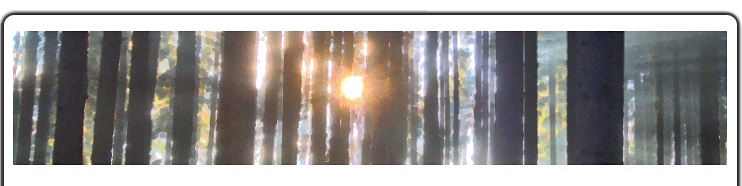
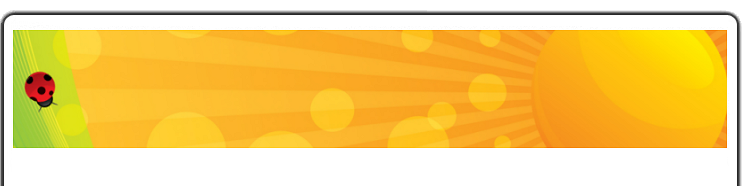
Updated style of the page

diff --git a/public/buttons-min.css b/public/buttons-min.css
@@ -4,4 +4,4 @@ Copyright 2014 Yahoo! Inc. All rights reserved.
 Licensed under the BSD License.
 https://github.com/yui/pure/blob/master/LICENSE.md
 */
-.pure-button{display:inline-block;*display:inline;zoom:1;line-height:normal;white-space:nowrap;vertical-align:baseline;text-align:center;cursor:pointer;-webkit-user-drag:none;-webkit-user-select:none;-moz-user-select:none;-ms-user-select:none;user-select:none}.pure-button::-moz-focus-inner{padding:0;border:0}.pure-button{font-family:inherit;font-size:100%;*font-size:90%;*overflow:visible;padding:.5em 1em;color:#444;color:rgba(0,0,0,.8);*color:#444;border:1px solid #999;border:0 rgba(0,0,0,0);background-color:#E6E6E6;text-decoration:none;border-radius:2px}.pure-button-hover,.pure-button:hover,.pure-button:focus{filter:progid:DXImageTransform.Microsoft.gradient(startColorstr='#00000000', endColorstr='#1a000000', GradientType=0);background-image:-webkit-gradient(linear,0 0,0 100%,from(transparent),color-stop(40%,rgba(0,0,0,.05)),to(rgba(0,0,0,.1)));background-image:-webkit-linear-gradient(transparent,rgba(0,0,0,.05) 40%,rgba(0,0,0,.1));background-image:-moz-linear-gradient(top,rgba(0,0,0,.05) 0,rgba(0,0,0,.1));background-image:-o-linear-gradient(transparent,rgba(0,0,0,.05) 40%,rgba(0,0,0,.1));background-image:linear-gradient(transparent,rgba(0,0,0,.05) 40%,rgba(0,0,0,.1))}.pure-button:focus{outline:0}.pure-button-active,.pure-button:active{box-shadow:0 0 0 1px rgba(0,0,0,.15) inset,0 0 6px rgba(0,0,0,.2) inset}.pure-button[disabled],.pure-button-disabled,.pure-button-disabled:hover,.pure-button-disabled:focus,.pure-button-disabled:active{border:0;background-image:none;filter:progid:DXImageTransform.Microsoft.gradient(enabled=false);filter:alpha(opacity=40);-khtml-opacity:.4;-moz-opacity:.4;opacity:.4;cursor:not-allowed;box-shadow:none}.pure-button-hidden{display:none}.pure-button::-moz-focus-inner{padding:0;border:0}.pure-button-primary,.pure-button-selected,a.pure-button-primary,a.pure-button-selected{background-color:#0078e7;color:#fff}
+.pure-button{display:inline-block;*display:inline;zoom:1;line-height:normal;white-space:nowrap;vertical-align:baseline;text-align:center;cursor:pointer;-webkit-user-drag:none;-webkit-user-select:none;-moz-user-select:none;-ms-user-select:none;user-select:none}.pure-button::-moz-focus-inner{padding:0;border:0}.pure-button{font-family:inherit;font-size:100%;*font-size:90%;*overflow:visible;padding:.5em 1em;color:#444;color:rgba(0,0,0,.8);*color:#444;border:1px solid #999;border:0 rgba(0,0,0,0);background-color:#E6E6E6;text-decoration:none;border-radius:2px}.pure-button-hover,.pure-button:hover,.pure-button:focus{filter:progid:DXImageTransform.Microsoft.gradient(startColorstr='#00000000', endColorstr='#1a000000', GradientType=0);background-image:-webkit-gradient(linear,0 0,0 100%,from(transparent),color-stop(40%,rgba(0,0,0,.05)),to(rgba(0,0,0,.1)));background-image:-webkit-linear-gradient(transparent,rgba(0,0,0,.05) 40%,rgba(0,0,0,.1));background-image:-moz-linear-gradient(top,rgba(0,0,0,.05) 0,rgba(0,0,0,.1));background-image:-o-linear-gradient(transparent,rgba(0,0,0,.05) 40%,rgba(0,0,0,.1));background-image:linear-gradient(transparent,rgba(0,0,0,.05) 40%,rgba(0,0,0,.1))}.pure-button:focus{outline:0}.pure-button-active,.pure-button:active{box-shadow:0 0 0 1px rgba(0,0,0,.15) inset,0 0 6px rgba(0,0,0,.2) inset}.pure-button[disabled],.pure-button-disabled,.pure-button-disabled:hover,.pure-button-disabled:focus,.pure-button-disabled:active{border:0;background-image:none;filter:progid:DXImageTransform.Microsoft.gradient(enabled=false);filter:alpha(opacity=40);-khtml-opacity:.4;-moz-opacity:.4;opacity:.4;cursor:not-allowed;box-shadow:none}.pure-button-hidden{display:none}.pure-button::-moz-focus-inner{padding:0;border:0}.pure-button-primary,.pure-button-selected,a.pure-button-primary,a.pure-button-selected{background-color:#4A9121;color:#fff}

diff --git a/public/style.css b/public/style.css
@@ -1,5 +1,5 @@
 body {
-    background: url("images/grass.jpg") repeat scroll 0 0 rgba(0, 0, 0, 0);
+    background: url("images/background.png") repeat scroll 0 0 #8EE35D;
     color: #333;
     font-family: 'Lucida Grande',Verdana,Arial,Sans-Serif;
     font-size: 62.5%;
@@ -23,7 +23,7 @@ ul { list-style-type: none; }
 }
 #header h1 {
     font-size: 22px;
-    padding-left: 40px;
+    padding-left: 80px;
     padding-top: 40px;
     text-align: left;
 }
@@ -50,7 +50,7 @@ ul { list-style-type: none; }
     text-decoration: none;
 }
 #navigation ul li a:hover {
-    background: url("images/nav_hover.jpg") repeat scroll center bottom rgba(0, 0, 0, 0);
+    background: url("images/nav_hover.png") repeat scroll center bottom rgba(0, 0, 0, 0);
     color: #fee202;
 }
 #content {
@@ -90,7 +90,7 @@ h1 {
 #headerimg .description {
     font-size: 1.4em;
     font-weight: bold;
-    padding-left: 40px;
+    padding-left: 80px;
     text-align: left;
 }
 
@@ -103,10 +103,11 @@ h2.pagetitle {
 #sidebar li {
     padding: 0 0 10px;
 }
+
 #sidebar li h2 {
     background-position: left top;
     background-repeat: no-repeat;
-    color: #06C;
+    color: #4A9121;
     font-family: 'Lucida Grande',Verdana,Sans-Serif;
     font-size: 12px;
 
@@ -115,13 +116,13 @@ h3 {
     font-size: 1.3em;
 }
 h1, h1 a, h1 a:hover, h1 a:visited, #headerimg .description {
-    color: #72B2F2;
-    text-shadow: 1px 1px 1px #5578B5;
+    color: #8EE35D;
+    text-shadow: 1px 1px 1px #69A845;
     text-decoration: none;
 }
 h2, h2 a, h2 a:visited, h3, h3 a, h3 a:visited {
-    color: #72B2F2;
-    text-shadow: 1px 1px 1px #5578B5;
+    color: #8EE35D;
+    text-shadow: 1px 1px 1px #69A845;
 }
 h2, h2 a, h2 a:hover, h2 a:visited, h3, h3 a, h3 a:hover, h3 a:visited, #sidebar h2, #wp-calendar caption, cite {
     text-decoration: none;
@@ -166,11 +167,11 @@ acronym, abbr, span.caps {
     letter-spacing: 0.07em;
 }
 a, h2 a:hover, h3 a:hover {
-    color: #06c;
+    color: #4A9121;
     text-decoration: none;
 }
 a:hover {
-    color: #147;
+    color: #64BF30;
     text-decoration: underline;
 }
 body {
